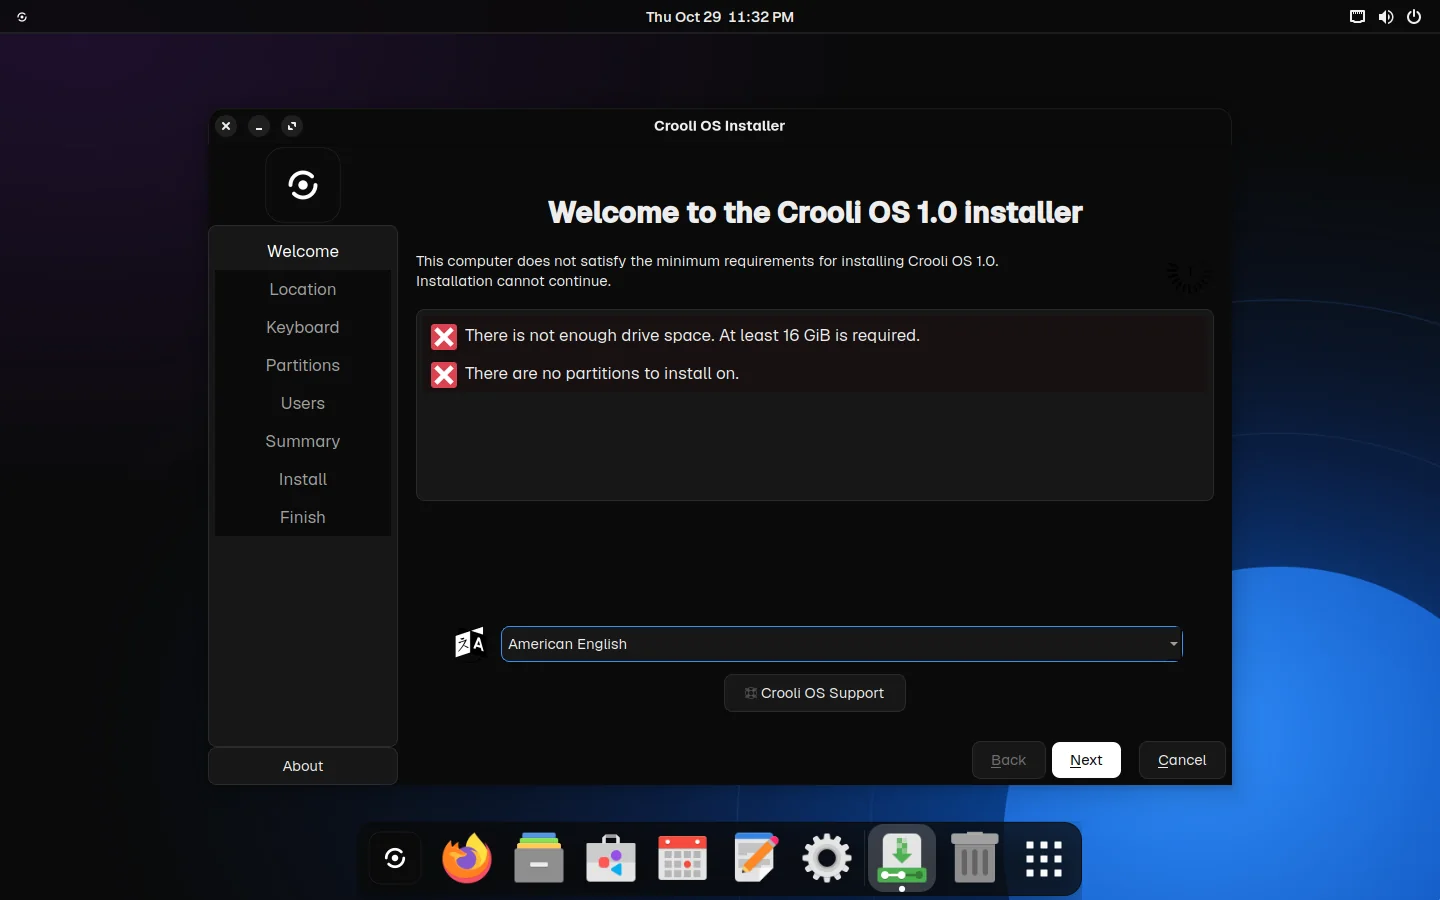
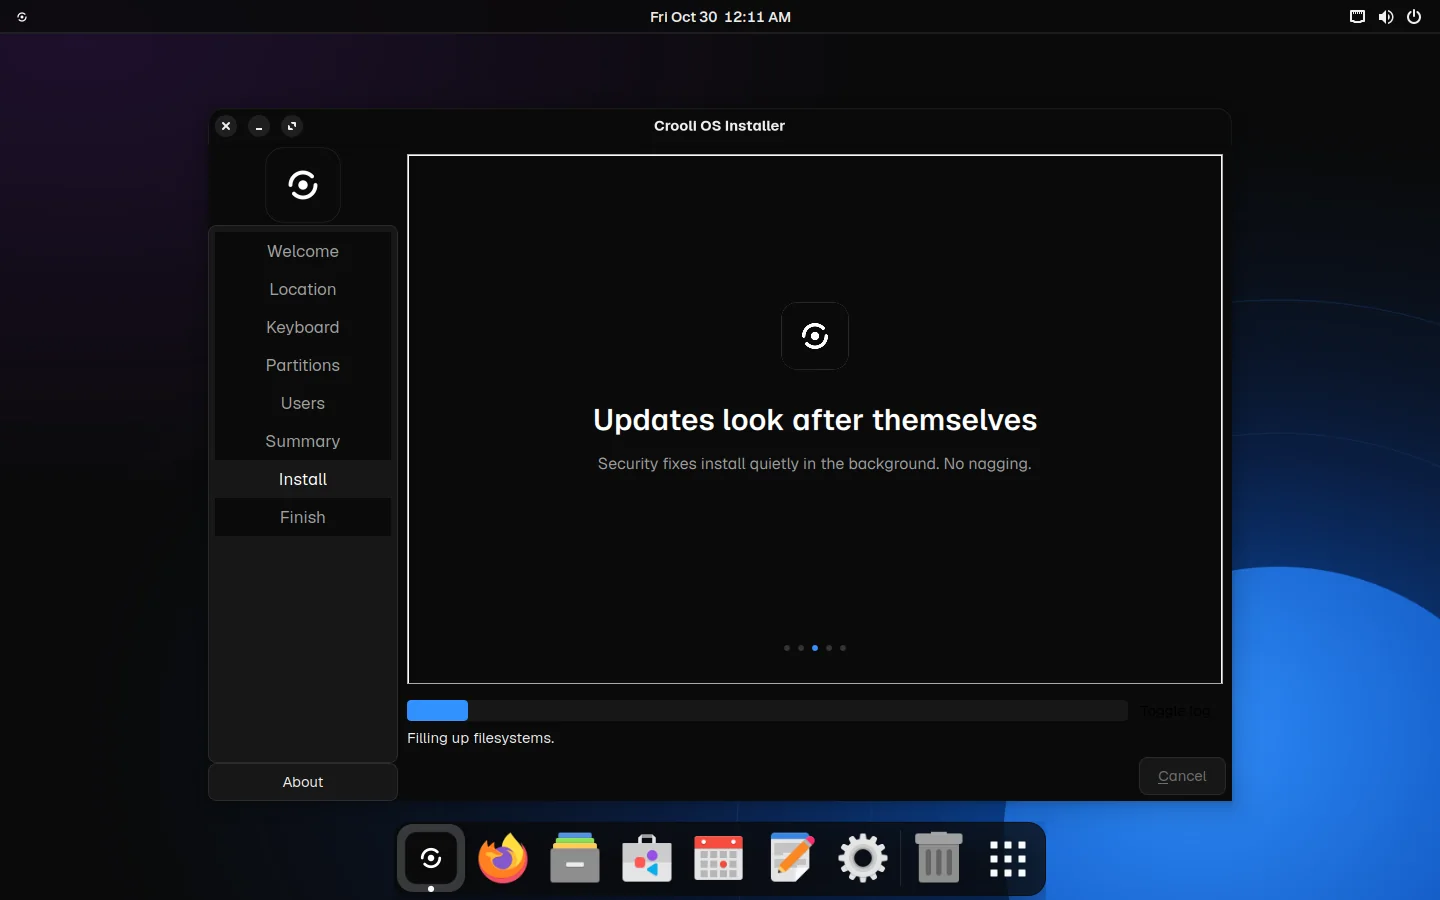
Website: real screenshots and two downloads (Intel/AMD and Apple silicon/ARM)
Welcome, Files, Settings, Terminal and Installer, captured from the booted
ARM build. Download buttons link to the fixed-name ISOs in the latest
release, with a note on running the ARM version in UTM.

diff --git a/web/index.html b/web/index.html
@@ -52,62 +52,26 @@
           <a class="btn btn-paper" href="#download">Download Crooli OS</a>
           <a class="btn btn-ghost" href="https://github.com/xandertaylorx/crooli-os">View on GitHub</a>
         </div>
-        <p class="hero-meta">Version 1.0.1 <span aria-hidden="true">·</span> Free <span aria-hidden="true">·</span> For 64-bit PCs</p>
+        <p class="hero-meta">Version 1.1 <span aria-hidden="true">·</span> Free <span aria-hidden="true">·</span> For Intel, AMD and Apple silicon</p>
       </div>
 
       <div class="wrap">
         <figure class="screen reveal" aria-label="Screenshots of Crooli OS">
           <div class="shots">
-            <img class="shot on" id="shot-desktop" src="assets/shots/desktop.webp" width="1440" height="900" alt="The Crooli OS desktop: a dark top bar with the Crooli menu, a floating dock and the blue Crooli wallpaper.">
+            <img class="shot on" id="shot-welcome" src="assets/shots/welcome.webp" width="1440" height="900" alt="The Crooli OS Welcome screen on the desktop: a dark top bar with the Crooli menu, six shortcut tiles and a floating dock.">
             <img class="shot" id="shot-files" src="assets/shots/files.webp" width="1440" height="900" loading="lazy" alt="Files, the file manager, in Crooli's dark colours with a sidebar and blue folders.">
             <img class="shot" id="shot-settings" src="assets/shots/settings.webp" width="1440" height="900" loading="lazy" alt="Settings in Crooli OS, with a dark sidebar and blue toggles.">
-            <img class="shot" id="shot-installer" src="assets/shots/installer.webp" width="1440" height="900" loading="lazy" alt="The Crooli OS installer with its steps down the left side.">
+            <img class="shot" id="shot-terminal" src="assets/shots/terminal.webp" width="1440" height="900" loading="lazy" alt="The terminal in Crooli's colours, showing the Crooli OS version.">
+            <img class="shot" id="shot-installer" src="assets/shots/installer.webp" width="1440" height="900" loading="lazy" alt="The Crooli OS installer, with its steps down the left side and a blue progress bar.">
           </div>
         </figure>
         <div class="shot-tabs" role="tablist" aria-label="Crooli OS screenshots">
-          <button role="tab" aria-selected="true" aria-controls="shot-desktop" data-shot="shot-desktop">Desktop</button>
+          <button role="tab" aria-selected="true" aria-controls="shot-welcome" data-shot="shot-welcome">Welcome</button>
           <button role="tab" aria-selected="false" aria-controls="shot-files" data-shot="shot-files">Files</button>
           <button role="tab" aria-selected="false" aria-controls="shot-settings" data-shot="shot-settings">Settings</button>
+          <button role="tab" aria-selected="false" aria-controls="shot-terminal" data-shot="shot-terminal">Terminal</button>
           <button role="tab" aria-selected="false" aria-controls="shot-installer" data-shot="shot-installer">Installer</button>
         </div>
-                  <figure><img src="assets/os/folder-documents.svg" alt=""><figcaption>Documents</figcaption></figure>
-                  <figure><img src="assets/os/folder-download.svg" alt=""><figcaption>Downloads</figcaption></figure>
-                  <figure><img src="assets/os/folder-music.svg" alt=""><figcaption>Music</figcaption></figure>
-                  <figure><img src="assets/os/folder-pictures.svg" alt=""><figcaption>Pictures</figcaption></figure>
-                  <figure><img src="assets/os/folder.svg" alt=""><figcaption>Public</figcaption></figure>
-                  <figure><img src="assets/os/folder.svg" alt=""><figcaption>Templates</figcaption></figure>
-                  <figure><img src="assets/os/folder-videos.svg" alt=""><figcaption>Videos</figcaption></figure>
-                </div>
-              </div>
-            </div>
-
-            <div class="win term">
-              <div class="hb">
-                <span class="hb-tab"><svg><use href="#i-plus"/></svg></span>
-                <span class="hb-title">Terminal</span>
-                <span class="hb-tools"><svg><use href="#i-menu"/></svg></span>
-              </div>
-              <pre class="tty"><span class="g">crooli@crooli</span>:<span class="b">~</span>$ head -3 /etc/os-release
-PRETTY_NAME="Crooli OS 1.0.1"
-NAME="Crooli OS"
-VERSION_ID="1.0.1"
-<span class="g">crooli@crooli</span>:<span class="b">~</span>$ <span class="cur"></span></pre>
-            </div>
-
-            <div class="dock" aria-hidden="true">
-              <img src="assets/os/crooli-install.svg" alt="">
-              <img src="assets/os/firefox.svg" alt="">
-              <img src="assets/os/files.svg" alt="">
-              <img src="assets/os/org.gnome.Software.svg" alt="">
-              <img src="assets/os/calendar.svg" alt="">
-              <img src="assets/os/org.gnome.TextEditor.svg" alt="">
-              <img src="assets/os/org.gnome.Settings.svg" alt="">
-              <span class="sep"></span>
-              <img src="assets/os/user-trash.svg" alt="">
-              <span class="apps"><svg><use href="#i-grid"/></svg></span>
-            </div>
-          </div>
-        </figure>
       </div>
     </section>
 
@@ -197,7 +161,7 @@ VERSION_ID="1.0.1"
         <li class="reveal">
           <span class="n">02</span>
           <h3>Make a USB stick</h3>
-          <p>Open <a href="https://etcher.balena.io">balenaEtcher</a>, pick the file, pick your USB stick, click Flash.</p>
+          <p>Open <a href="https://etcher.balena.io">balenaEtcher</a>, pick the file, pick your USB stick, click Flash. On a Mac, open it in UTM instead.</p>
         </li>
         <li class="reveal">
           <span class="n">03</span>
@@ -220,8 +184,8 @@ VERSION_ID="1.0.1"
 <pre><code><span class="p">$</span> git clone https://github.com/xandertaylorx/crooli-os
 <span class="p">$</span> cd crooli-os
 <span class="p">$</span> ./build.sh
-<span class="m">Building Crooli OS 1.0.1 on Debian 13…</span>
-<span class="ok">✓</span> crooli-os-1.0.1-amd64.hybrid.iso</code></pre>
+<span class="m">Building Crooli OS 1.1 on Debian 13…</span>
+<span class="ok">✓</span> crooli-os-1.1-amd64.hybrid.iso</code></pre>
       </div>
     </section>
 
@@ -231,13 +195,14 @@ VERSION_ID="1.0.1"
       <div class="wrap download-inner reveal">
         <img src="assets/app-icon.svg" width="72" height="72" alt="">
         <h2 class="h2">Get Crooli OS</h2>
-        <p class="lede">Version 1.0.1 for 64-bit PCs. Free, with no account needed.</p>
+        <p class="lede">Version 1.1. Free, with no account needed.</p>
         <div class="cta">
-          <a class="btn btn-paper" href="/download">Download for PC</a>
-          <a class="btn btn-ghost" href="https://github.com/xandertaylorx/crooli-os/actions/workflows/build-iso.yml">Latest test build</a>
+          <a class="btn btn-paper" href="/download/intel">Intel or AMD PC</a>
+          <a class="btn btn-paper" href="/download/arm">Apple silicon or ARM</a>
         </div>
+        <p class="dl-note">On a Mac with an M-series chip? Download the Apple silicon version and open it in <a href="https://mac.getutm.app">UTM</a>, choosing <b>Virtualize</b>.</p>
         <dl class="reqs">
-          <div><dt>Processor</dt><dd>64-bit Intel or AMD</dd></div>
+          <div><dt>Processor</dt><dd>64-bit Intel, AMD or ARM</dd></div>
           <div><dt>Memory</dt><dd>2 GB (4 GB recommended)</dd></div>
           <div><dt>Storage</dt><dd>16 GB</dd></div>
           <div><dt>USB stick</dt><dd>4 GB or larger</dd></div>

diff --git a/web/styles.css b/web/styles.css
@@ -221,6 +221,9 @@ h1, h2, h3, h4, p { margin: 0; }
 }
 .download-inner { position: relative; z-index: 1; display: flex; flex-direction: column; align-items: center; text-align: center; }
 .download .h2 { margin-top: 28px; }
+.dl-note { margin-top: 18px; max-width: 34rem; color: var(--mist); font-size: 14px; }
+.dl-note a { color: var(--fg); text-decoration: underline; text-decoration-color: var(--line-strong); text-underline-offset: 3px; }
+.dl-note b { color: var(--fg); font-weight: 500; }
 .reqs {
   margin: 48px 0 0; display: grid; grid-template-columns: repeat(4, auto); gap: 0;
   border: 1px solid var(--line); border-radius: var(--radius-lg); overflow: hidden; background: rgb(10 10 10 / .6);
